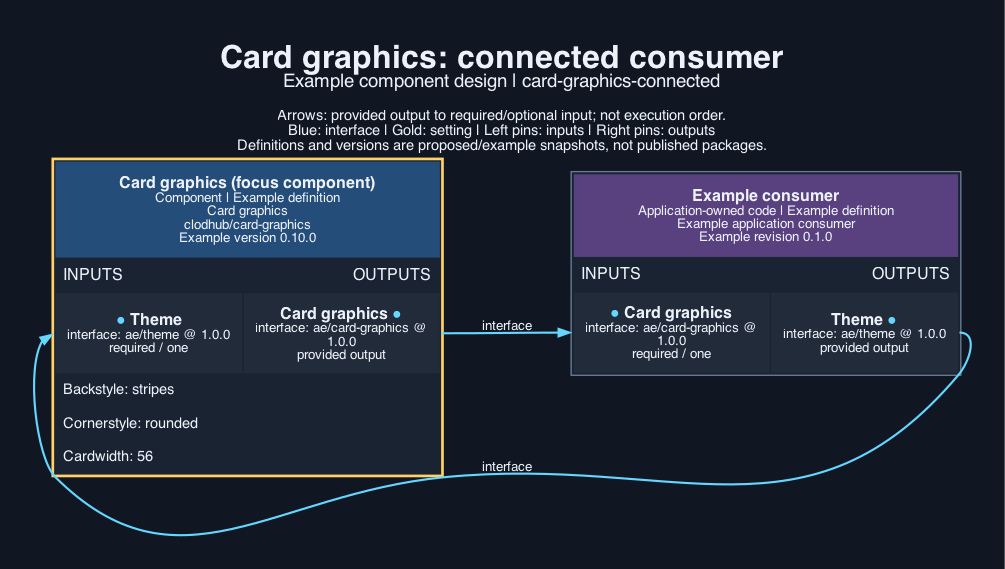
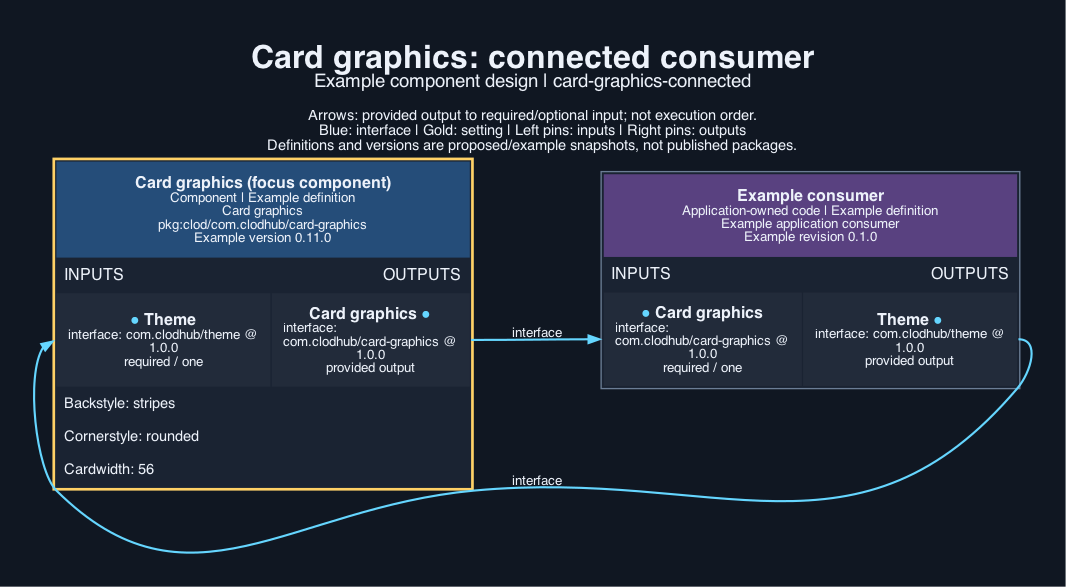
card-graphics 0.11.0: package URL names, clod, com.clodhub interface types and Kotlin packages

diff --git a/tests/web.test.ts b/tests/web.test.ts
@@ -180,7 +180,7 @@ test("a consumer draws a hand with French ranks and empty slots", () => {
 test("the OpenRPC interface describes card codes, settings and the exported functions", async () => {
   const doc = JSON.parse(readFileSync(new URL("../interfaces/card-graphics.json", import.meta.url), "utf8"));
   assert.equal(doc.openrpc, "1.3.2");
-  assert.deepEqual([doc.info.title, doc.info.version], ["ae/card-graphics", "1.0.0"]);
+  assert.deepEqual([doc.info.title, doc.info.version], ["com.clodhub/card-graphics", "1.0.0"]);
   const { CardCode, CardSettings, PipLayout, FaceModel } = doc.components.schemas;
   const code = new RegExp(CardCode.pattern);
   for (const c of allCards()) assert.match(c, code);

diff --git a/tests/apple/theme/ThemeTypes.swift b/tests/apple/theme/ThemeTypes.swift
@@ -16,7 +16,7 @@ struct ThemeColour: Equatable {
         alpha = Double(rgba & 0xFF) / 255
     }
 
-    // An installer colour: "hex e0b35a" (an aepm string setting cannot hold "#" and starts with a
+    // An installer colour: "hex e0b35a" (a clod string setting cannot hold "#" and starts with a
     // letter), "#rrggbb", "rrggbb", each optionally with two more digits of opacity; nil for anything else.
     static func setting(_ value: String) -> ThemeColour? {
         var text = value.trimmingCharacters(in: .whitespaces)

diff --git a/implementation/android/src/main/java/com/clodhub/cards/PlayingCard.kt b/implementation/android/src/main/java/com/clodhub/cards/PlayingCard.kt
@@ -1,8 +1,8 @@
-package ae.cards
+package com.clodhub.cards
 
-import ae.theme.ComposeColours
-import ae.theme.ThemeSet
-import ae.theme.composeColours
+import com.clodhub.theme.ComposeColours
+import com.clodhub.theme.ThemeSet
+import com.clodhub.theme.composeColours
 import androidx.compose.animation.core.Animatable
 import androidx.compose.animation.core.RepeatMode
 import androidx.compose.animation.core.animateFloat

diff --git a/tests/android/Main.kt b/tests/android/Main.kt
@@ -1,4 +1,4 @@
-import ae.cards.*
+import com.clodhub.cards.*
 import kotlin.math.abs
 
 // Mirrors tests/apple/main.swift: faces are compared with rows the TypeScript produced (Expected.kt).

diff --git a/implementation/android/src/main/java/com/clodhub/cards/CardModel.kt b/implementation/android/src/main/java/com/clodhub/cards/CardModel.kt
@@ -1,4 +1,4 @@
-package ae.cards
+package com.clodhub.cards
 
 import kotlin.math.cos
 

diff --git a/CONTRACT.md b/CONTRACT.md
@@ -15,8 +15,8 @@ Facilities: `card-graphics` (Card faces, backs, slots, dealing and flipping).
 ## Artefacts and dependencies
 `component.json` maps every `implementation/` source into `components/card-graphics/`:
 
-- `implementation/android/src/main/java/ae/cards/CardModel.kt` -> `components/card-graphics/android/src/main/java/ae/cards/CardModel.kt`
-- `implementation/android/src/main/java/ae/cards/PlayingCard.kt` -> `components/card-graphics/android/src/main/java/ae/cards/PlayingCard.kt`
+- `implementation/android/src/main/java/com/clodhub/cards/CardModel.kt` -> `components/card-graphics/android/src/main/java/com/clodhub/cards/CardModel.kt`
+- `implementation/android/src/main/java/com/clodhub/cards/PlayingCard.kt` -> `components/card-graphics/android/src/main/java/com/clodhub/cards/PlayingCard.kt`
 - `implementation/apple/Sources/CardModel.swift` -> `components/card-graphics/apple/Sources/CardModel.swift`
 - `implementation/apple/Sources/PlayingCard.swift` -> `components/card-graphics/apple/Sources/PlayingCard.swift`
 - `implementation/web/card-model.ts` -> `components/card-graphics/web/card-model.ts`
@@ -27,10 +27,10 @@ Dependencies: none.
 `tools.lock.json` pins verification tools: node 26.5, python3 3.12, swiftc 6.4, xcrun 72, kotlinc 2.2, java 26.0. Licence wording remains deferred.
 
 ## Provided interfaces
-- `interfaces/card-graphics.json` defines `card-graphics` (ae/card-graphics) version 1.0.0 as an OpenRPC 1.3.2 document: one method per web function, each description naming the Swift and Kotlin form or saying it is web only, with card codes, settings, face models, deal steps and pip layout as JSON Schema 2020-12 under `components.schemas`. Picture lookups, rank labels and DOM elements are described as host values, not serialised.
+- `interfaces/card-graphics.json` defines `card-graphics` (com.clodhub/card-graphics) version 1.0.0 as an OpenRPC 1.3.2 document: one method per web function, each description naming the Swift and Kotlin form or saying it is web only, with card codes, settings, face models, deal steps and pip layout as JSON Schema 2020-12 under `components.schemas`. Picture lookups, rank labels and DOM elements are described as host values, not serialised.
 
 ## Required interfaces
-- `theme` (ae/theme) version 1.0.0, supplied by the recipe or application. Its interface document is a copy of the theme component's OpenRPC document; card-graphics reads the theme's `--paper`, `--paper-accent`, `--on-primary` and `--primary` CSS variables (web) and `ThemeSet` colours (Swift, Kotlin).
+- `theme` (com.clodhub/theme) version 1.0.0, supplied by the recipe or application. Its interface document is a copy of the theme component's OpenRPC document; card-graphics reads the theme's `--paper`, `--paper-accent`, `--on-primary` and `--primary` CSS variables (web) and `ThemeSet` colours (Swift, Kotlin).
 
 ## Integration
 Web: link `web/cards.css` after the theme's CSS; call `cardEl(code, { settings, width, theme, artFor, rankLabel })` for a face or, with `null`, a back; `cardSlot` for an empty place; `dealPlan` or `dealRounds` to schedule a deal and `dealInto` to animate one card from the deck's offset; `flippingCard(from, to)` for a turn. Pass `artFor` to say where artwork files are (`card-back-<theme>.png`, `card-<theme>-jack|queen|king.png`) or omit it to draw everything in code. Apple: compile `CardModel.swift` anywhere and `PlayingCard.swift` in UIKit targets with the theme's Swift files; set `.cardStyle(CardStyle(...))` once; use `PlayingCard`, `CardSlot`, `DealtCard`, `FlippingCard`. Android: add `CardModel.kt` and `PlayingCard.kt` to a Compose module with the theme's Kotlin files; provide `LocalCardStyle`. Which cards exist, who holds them, the logo, hand underlines, the possible-hands panel and showdown layouts stay in the recipe.

diff --git a/INSTRUCTIONS.md b/INSTRUCTIONS.md
@@ -1,15 +1,15 @@
 # Card graphics instructions
 
 ## For the agent
-Select `clodhub/card-graphics`; connect `theme` to the theme component. Set `backStyle`, `cornerStyle` and `cardWidth` from the recipe's look answer only if the user asked for something other than the defaults. Rank labels come from the `translations` component (keys the recipe defines); do not add strings here.
+Select `pkg:clod/com.clodhub/card-graphics`; connect `theme` to the theme component. Set `backStyle`, `cornerStyle` and `cardWidth` from the recipe's look answer only if the user asked for something other than the defaults. Rank labels come from the `translations` component (keys the recipe defines); do not add strings here.
 
-- Select package `clodhub/card-graphics` version `0.10.0`.
+- Select package `pkg:clod/com.clodhub/card-graphics` version `0.11.0`.
 - Settings to configure:
   - `backStyle` (string, identifier; optional; default `stripes`)
   - `cornerStyle` (string, identifier; optional; default `rounded`)
   - `cardWidth` (integer; optional; default `56`)
-- Connect the provided `card-graphics` (ae/card-graphics 1.0.0, OpenRPC 1.3.2 document `interfaces/card-graphics.json`) to the consumer that needs it.
-- Supply `theme` (ae/theme 1.0.0) from the component that provides it.
+- Connect the provided `card-graphics` (com.clodhub/card-graphics 1.0.0, OpenRPC 1.3.2 document `interfaces/card-graphics.json`) to the consumer that needs it.
+- Supply `theme` (com.clodhub/theme 1.0.0) from the component that provides it.
 - No accounts or keys are needed.
 
 ## For the developer
@@ -21,4 +21,4 @@ From the component directory:
 - `node --test tests/web.test.ts` (web, required-local; tools: node 26.5)
 - `python3 tests/native.py apple` (apple, platform; tools: python3 3.12, swiftc 6.4, xcrun 72)
 - `python3 tests/native.py android` (android, platform; tools: python3 3.12, kotlinc 2.2, java 26.0)
-- `python3 -m aepm review <digest> --store STORE --policy POLICY --trusted --allow-network` checks an archive fetched with `python3 -m aepm fetch clodhub/card-graphics@VERSION --store STORE --from https://clodhub.com` and runs its suites.
+- `python3 -m clod review <digest> --store STORE --policy POLICY --trusted --allow-network` checks an archive fetched with `python3 -m clod fetch card-graphics@VERSION --store STORE --from https://clodhub.com` and runs its suites.

diff --git a/SOURCE.md b/SOURCE.md
@@ -15,8 +15,8 @@ Reference revision: `19905b75dbea89fbfd424d67fe26c81aaed0e018`. Extracted from t
 
 ## Android
 
-- `implementation/android/src/main/java/ae/cards/CardModel.kt` <- `android/app/src/main/java/app/ourapps/ourpoker/ui/Cards.kt:48-80` (glyphs, court names, pips), as the Swift model.
-- `implementation/android/src/main/java/ae/cards/PlayingCard.kt` <- `ui/Cards.kt:82-175` (`PlayingCard`, `CornerIndex`, `CardSlot`). `CardFace`, `CardRed`, `Ink` constants, `artPainter` resource lookups (`getIdentifier`) and `rankText` became `CardStyle`. `DealtCard`, `FlippingCard` are new (`generated-platform`). Left behind: `LegendLine`, `Logo` and `pulseHalo` (`Cards.kt:165-191`, the last is in `controls`).
+- `implementation/android/src/main/java/com/clodhub/cards/CardModel.kt` <- `android/app/src/main/java/app/ourapps/ourpoker/ui/Cards.kt:48-80` (glyphs, court names, pips), as the Swift model.
+- `implementation/android/src/main/java/com/clodhub/cards/PlayingCard.kt` <- `ui/Cards.kt:82-175` (`PlayingCard`, `CornerIndex`, `CardSlot`). `CardFace`, `CardRed`, `Ink` constants, `artPainter` resource lookups (`getIdentifier`) and `rankText` became `CardStyle`. `DealtCard`, `FlippingCard` are new (`generated-platform`). Left behind: `LegendLine`, `Logo` and `pulseHalo` (`Cards.kt:165-191`, the last is in `controls`).
 
 ## Tests
 

diff --git a/.opencode/knowledge/00-index.md b/.opencode/knowledge/00-index.md
@@ -1,5 +1,5 @@
 # card-graphics ownership
 
 Repository: https://github.com/clodhub/card-graphics.git.
-Current code: `implementation/android/src/main/java/ae/cards/CardModel.kt`, `implementation/android/src/main/java/ae/cards/PlayingCard.kt`, `implementation/apple/Sources/CardModel.swift`, `implementation/apple/Sources/PlayingCard.swift`, `implementation/web/card-model.ts`, `implementation/web/cards.css`, `implementation/web/cards.ts`.
+Current code: `implementation/android/src/main/java/com/clodhub/cards/CardModel.kt`, `implementation/android/src/main/java/com/clodhub/cards/PlayingCard.kt`, `implementation/apple/Sources/CardModel.swift`, `implementation/apple/Sources/PlayingCard.swift`, `implementation/web/card-model.ts`, `implementation/web/cards.css`, `implementation/web/cards.ts`.
 `component.json`, `tools.lock.json` and `visual/` are generated from `authoring/spec.json`; edit the spec, not the generated files. `CONTRACT.md`, `INSTRUCTIONS.md` and `SOURCE.md` are hand-written and kept on regeneration.

diff --git a/visual/output/description.md b/visual/output/description.md
@@ -1,3 +1,3 @@
 # Card graphics
 
-The card-graphics component at version 0.10.0 provides ae/card-graphics version 1.0.0 to an illustrative application consumer, which in turn supplies ae/theme version 1.0.0. The 2 arrows each run from a named output to a required input of the same type and version. Setting values shown are placeholders and secrets appear only as references.
+The card-graphics component at version 0.11.0 provides com.clodhub/card-graphics version 1.0.0 to an illustrative application consumer, which in turn supplies com.clodhub/theme version 1.0.0. The 2 arrows each run from a named output to a required input of the same type and version. Setting values shown are placeholders and secrets appear only as references.

diff --git a/.opencode/knowledge/workflow.md b/.opencode/knowledge/workflow.md
@@ -2,5 +2,5 @@
 
 Repository: `clodhub/card-graphics`. Licence: `Apache-2.0` (`LICENCE`, `NOTICE`).
 Suite commands (from the package root): `node --test tests/web.test.ts`; `python3 tests/native.py apple`; `python3 tests/native.py android`.
-Review a fetched archive: `python3 -m aepm review <digest> --store STORE --policy POLICY --trusted --allow-network`.
+Review a fetched archive: `python3 -m clod review <digest> --store STORE --policy POLICY --trusted --allow-network`.
 Always run Python with `-B`; never write bytecode into the repository.
